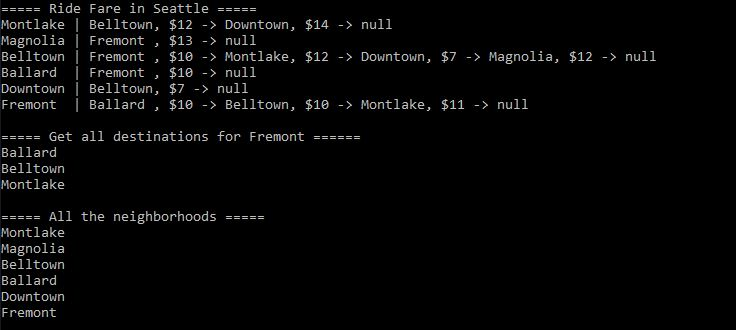
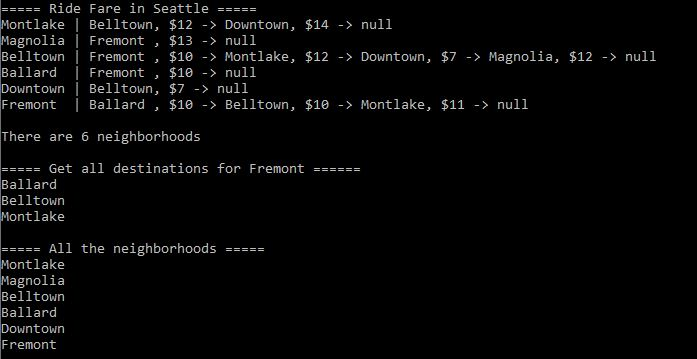
add unit tests

Changed region(s): [[0.0, 0.0, 0.934, 0.3333], [0.0, 0.3636, 0.5122, 0.9697]]

diff --git a/Data-Structures/GraphImplementation/GraphTests/UnitTest1.cs b/Data-Structures/GraphImplementation/GraphTests/UnitTest1.cs
@@ -1,23 +1,78 @@
-using System;
+using GraphImplementation;
+using System.Collections.Generic;
 using Xunit;
 
 namespace GraphTests
 {
     public class UnitTest1
     {
+
         [Fact]
         public void CanAddAVertexToGraph()
         {
             Graph<string> AdjacencyList = new Graph<string>();
-            var ML = AdjacencyList.AddVertex("Montlake");
+
+            Vertex<string> montlake = new Vertex<string>("Montlake");
+            Assert.Equal(montlake.Data, AdjacencyList.AddVertex("Montlake").Data);
         }
-        // Node can be successfully added to the graph
-        // An edge can be successfully added to the graph
-        // A collection of all nodes can be properly retrieved from the graph
-        // All appropriate neighbors can be retrieved from the graph
-        // Neighbors are returned with the weight between nodes included
-        // The proper size is returned, representing the number of nodes in the graph
-        // A graph with only one node and edge can be properly returned
-        // An empty graph properly returns null
+
+        [Fact]
+        public void CanAddEdgesToAVertex()
+        {
+            Graph<string> AdjacencyList = new Graph<string>();
+
+            var MD = AdjacencyList.AddVertex("Madrona");
+            var FM = AdjacencyList.AddVertex("Fremont");
+            var QA = AdjacencyList.AddVertex("Queen Anne");
+
+            AdjacencyList.AddDirectedEdge(MD, FM, 13);
+            AdjacencyList.AddDirectedEdge(MD, QA, 9);
+
+            List<Vertex<string>> plannedDestinations = new List<Vertex<string>>
+            {
+                FM,
+                QA
+            };
+
+            List<Edge<string>> actualRoutes = AdjacencyList.GetNeighbors(MD);
+
+            List<Vertex<string>> destinations = new List<Vertex<string>>();
+            foreach (var destination in actualRoutes)
+            {
+                destinations.Add(destination.Vertex);
+            }
+
+            Assert.Equal(plannedDestinations, destinations);
+        }
+
+        [Fact]
+        public void CanGetOneNeighborhood()
+        {
+
+        }
+
+        [Fact]
+        public void CanGetAllNeighborhoods()
+        {
+            
+        }
+
+        [Fact]
+        public void CanGetEmptyNeighborhood()
+        {
+
+        }
+
+        [Fact]
+        public void CanGetNumbersOfNeighborhoods()
+        {
+
+        }
+
+        [Fact]
+        public void CanGetRideFaresBetweenNeighborhoods()
+        {
+
+        }
     }
 }

diff --git a/Data-Structures/GraphImplementation/GraphImplementation/Program.cs b/Data-Structures/GraphImplementation/GraphImplementation/Program.cs
@@ -26,7 +26,10 @@ namespace GraphImplementation
             AdjacencyList.AddDirectedEdge(MN, FM, 13);
 
             AdjacencyList.Print();
+            Console.WriteLine($"There are {AdjacencyList.Size()} neighborhoods");
 
+            Console.WriteLine(
+                );
             var listOfEdges = AdjacencyList.GetNeighbors(FM);
             Console.WriteLine("===== Get all destinations for Fremont ======");
             foreach (var destinations in listOfEdges)

diff --git a/Data-Structures/GraphImplementation/README.md b/Data-Structures/GraphImplementation/README.md
@@ -66,4 +66,6 @@ Result
 
 1.4: Add methods and summary comments. - 2019 Dec 04
 
-1.5: 
+1.5: Add method implementations to Main(). - 2019 Dec 07
+
+1.6: Add unit testing. - 2019 Dec 07
